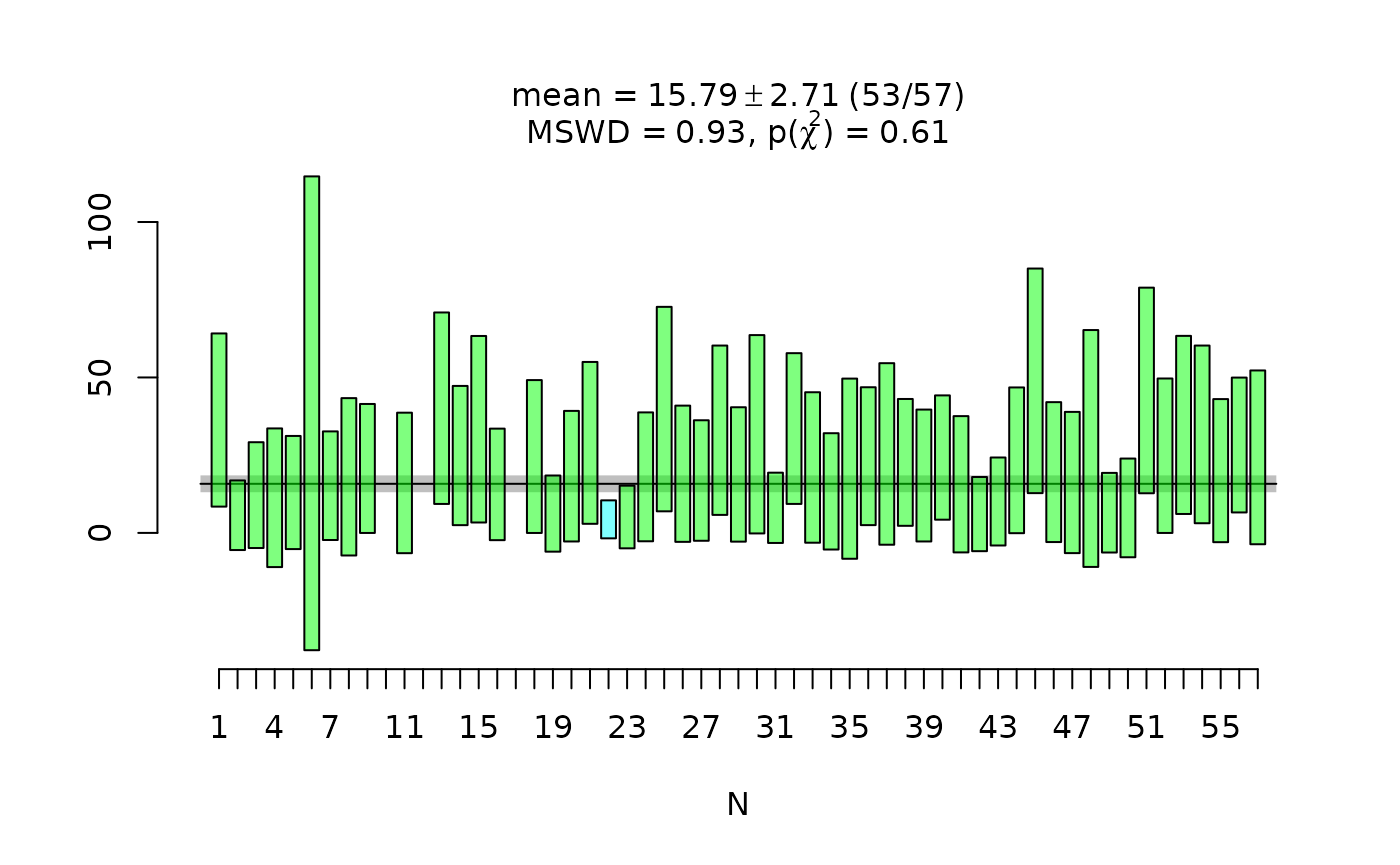
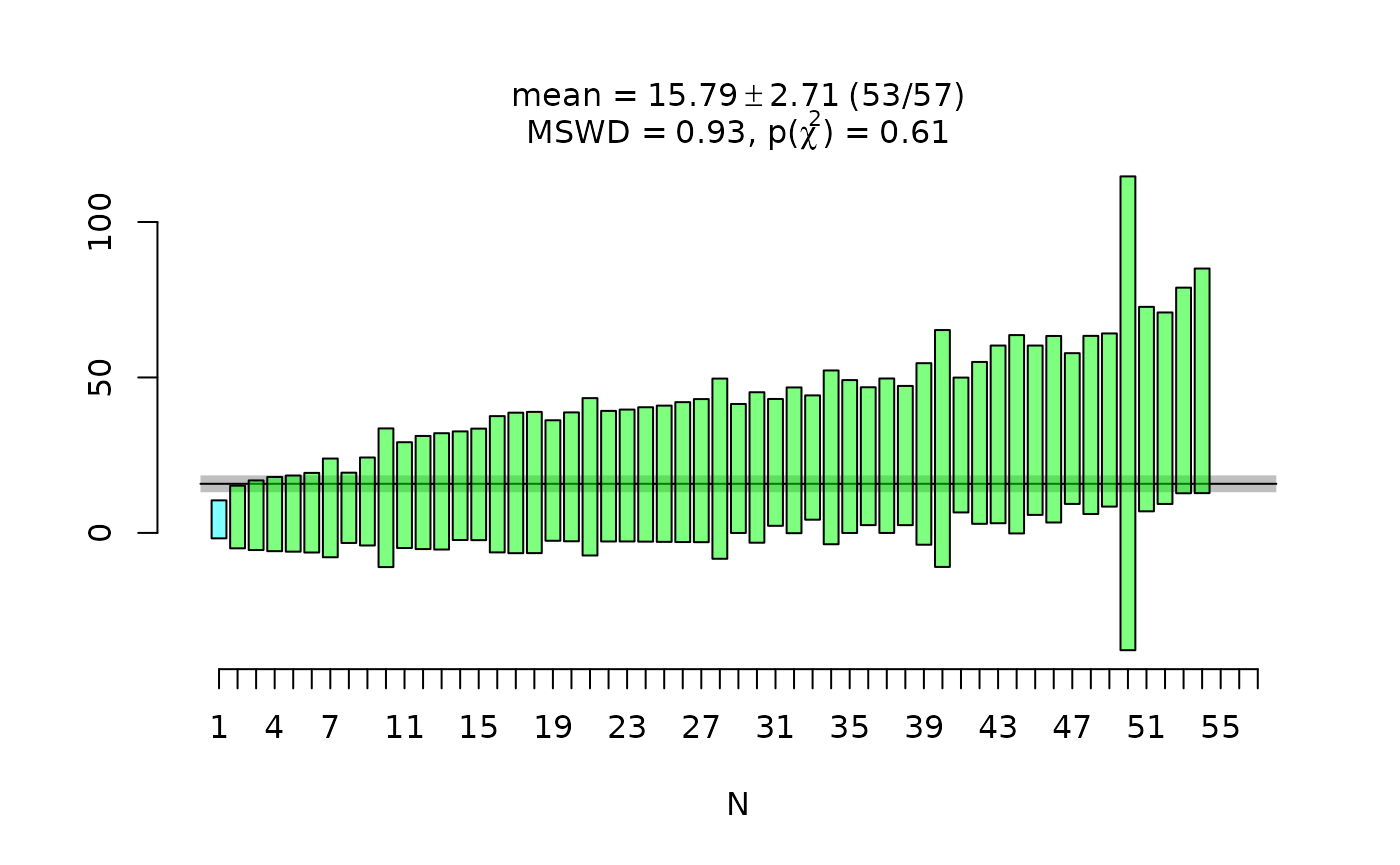
Deploying to gh-pages from @ tobiste/laftr@d766ba4adbaf153b3a3b89a712866a1449ff42e3 🚀

Changed region(s): [[0.1229, 0.1873, 0.9214, 0.7491]]

diff --git a/articles/laftr.html b/articles/laftr.html
@@ -256,7 +256,7 @@ using adaptive KDE with <code>ggplot2</code>:</p>
 <h3 id="weighted-mean">Weighted mean<a class="anchor" aria-label="anchor" href="#weighted-mean"></a>
 </h3>
 <div class="sourceCode" id="cb24"><pre class="downlit sourceCode r">
-<code class="sourceCode R"><span><span class="fu">IsoplotR</span><span class="fu">::</span><span class="fu"><a href="https://rdrr.io/pkg/IsoplotR/man/weightedmean.html" class="external-link">weightedmean</a></span><span class="op">(</span><span class="va">ages.iso</span><span class="op">)</span></span></code></pre></div>
+<code class="sourceCode R"><span><span class="fu">IsoplotR</span><span class="fu">::</span><span class="fu"><a href="https://rdrr.io/pkg/IsoplotR/man/weightedmean.html" class="external-link">weightedmean</a></span><span class="op">(</span><span class="va">ages.iso</span>, ranked <span class="op">=</span> <span class="cn">TRUE</span><span class="op">)</span></span></code></pre></div>
 <p><img src="laftr_files/figure-html/w.mean-1.png" width="700"></p>
 </div>
 <div class="section level3">
